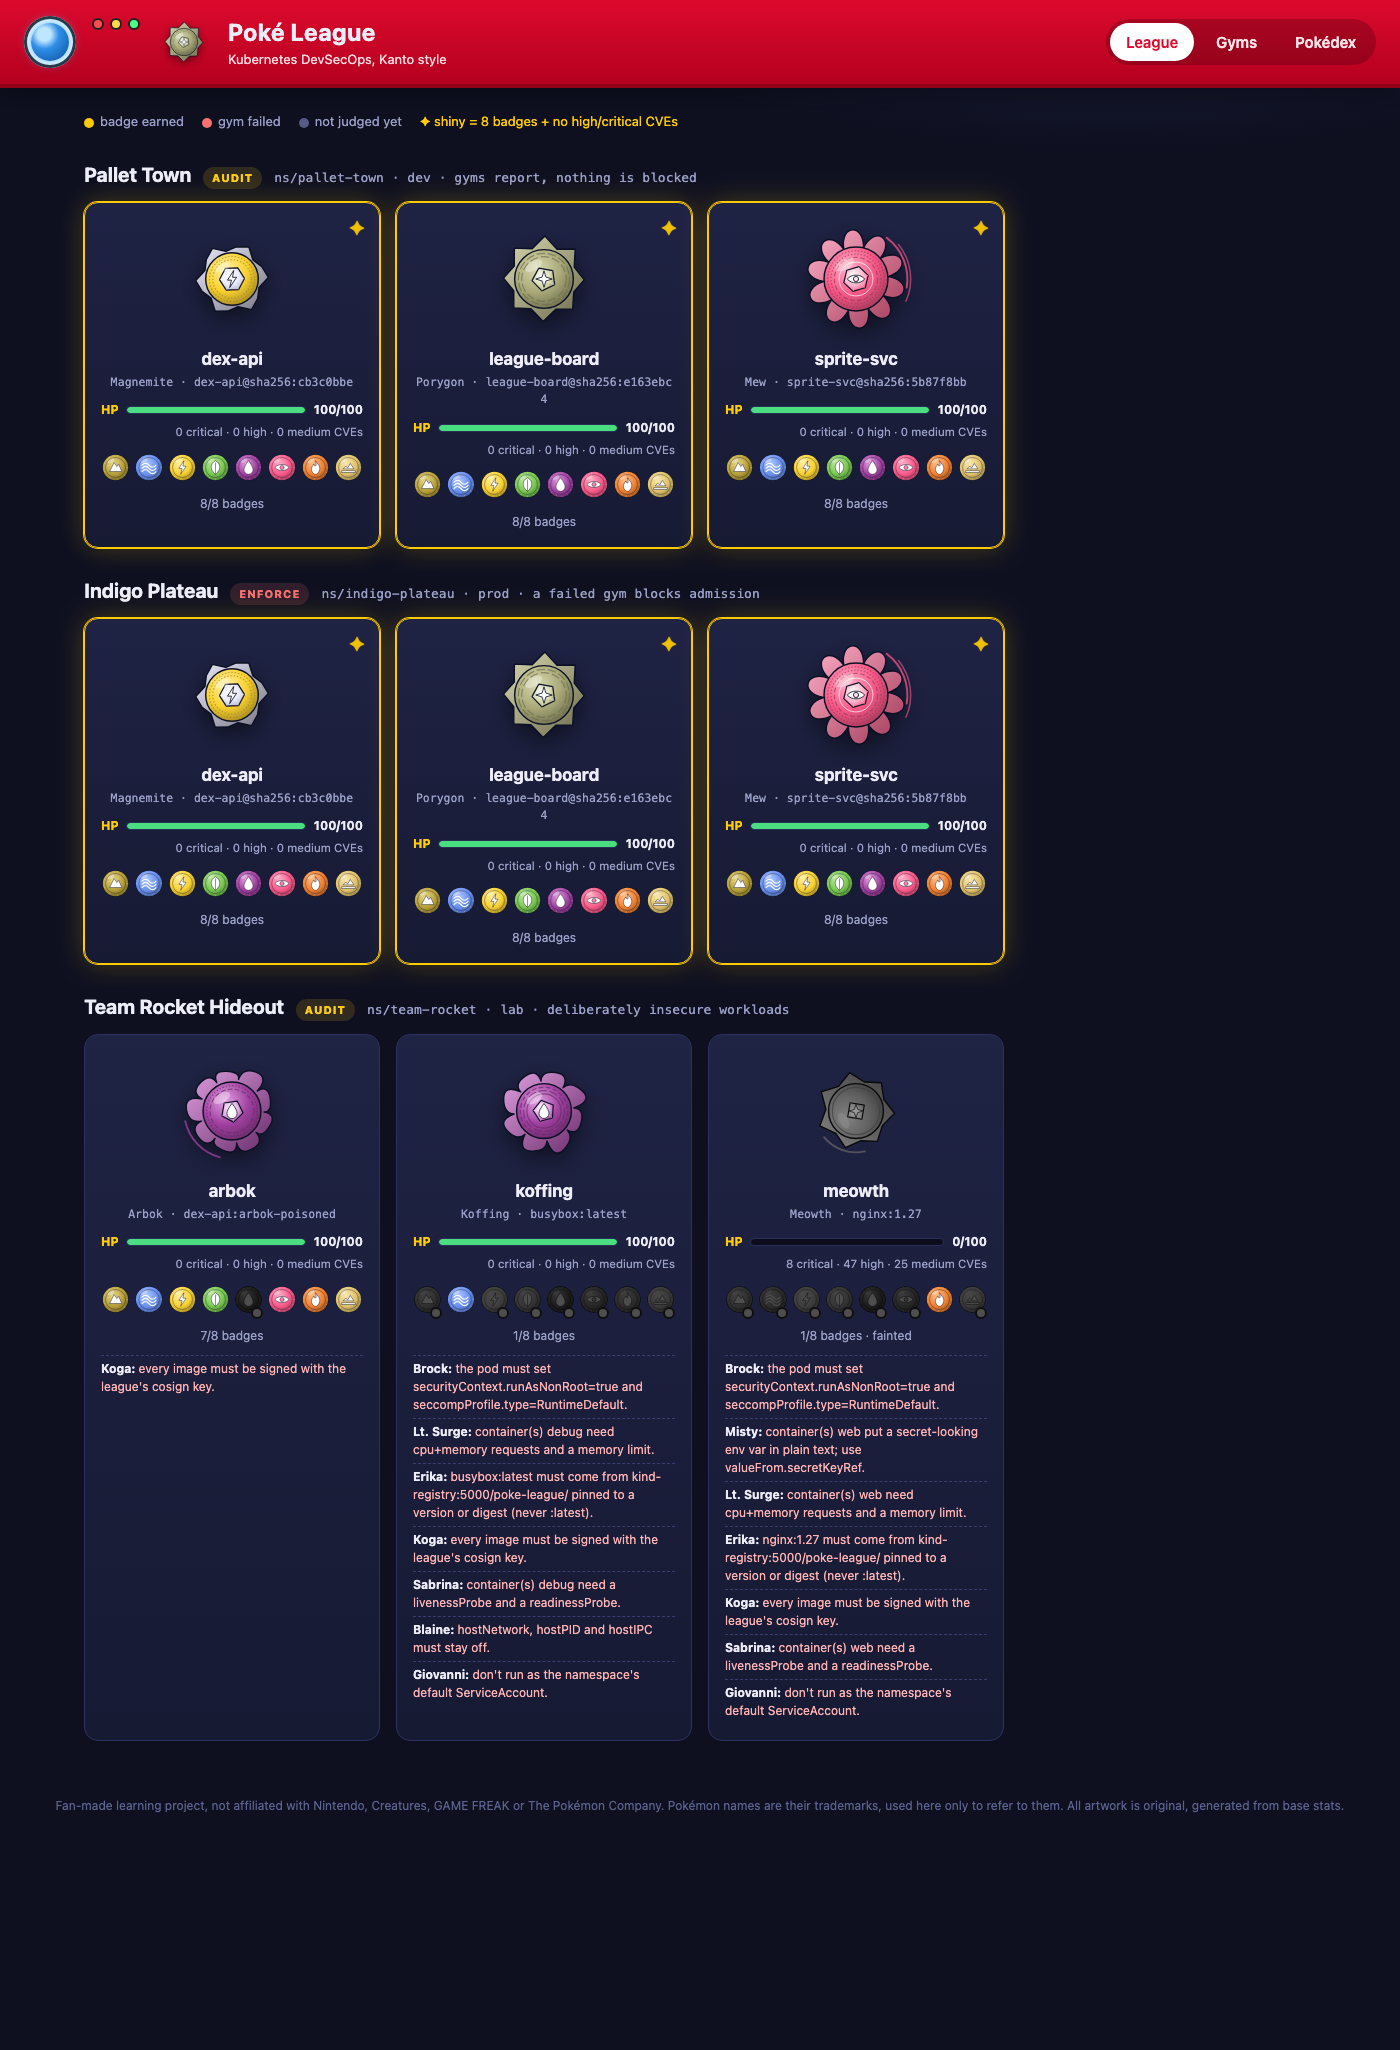
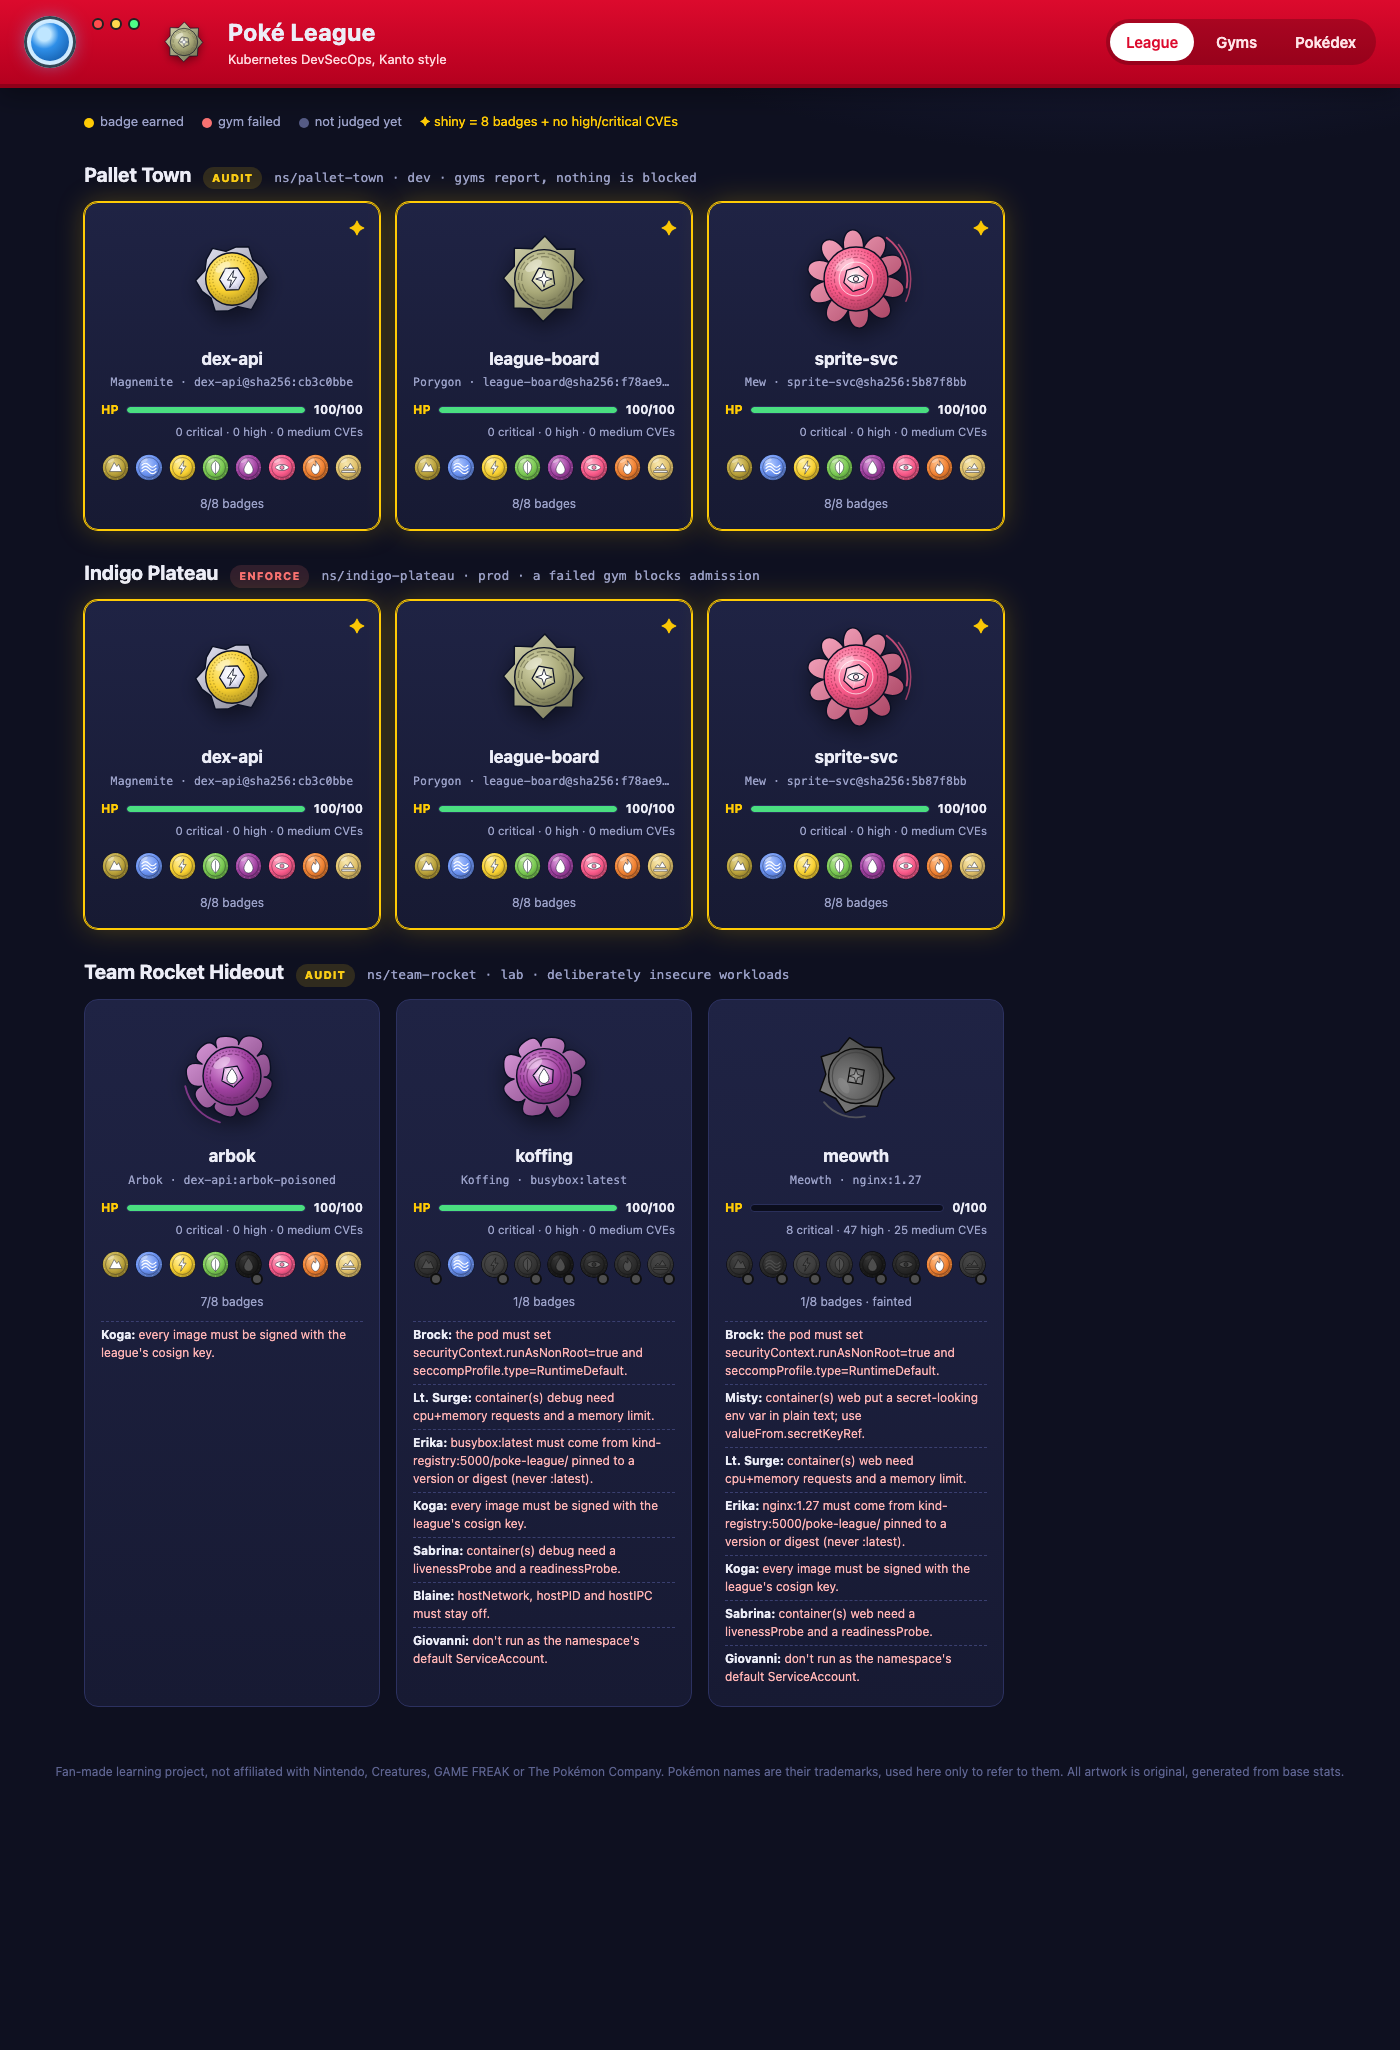
board: keep the image line on one row (ellipsis, full ref on hover); refresh screenshots

Changed region(s): [[0.0614, 0.1873, 0.7371, 0.8429]]

diff --git a/web/style.css b/web/style.css
@@ -105,7 +105,7 @@ main { padding: 24px; max-width: 1280px; margin: 0 auto; }
 }
 .card.fainted .art { filter: grayscale(1) brightness(.6); transform: rotate(-90deg); }
 .card h3 { margin: 0; text-align: center; font-size: 17px; }
-.card .img { text-align: center; font-family: var(--mono); color: var(--muted); font-size: 11.5px; word-break: break-all; margin: 2px 0 10px; }
+.card .img { text-align: center; font-family: var(--mono); color: var(--muted); font-size: 11.5px; white-space: nowrap; overflow: hidden; text-overflow: ellipsis; margin: 2px 0 10px; }
 
 .hp { display: grid; grid-template-columns: auto 1fr auto; gap: 8px; align-items: center; font-size: 12px; font-weight: 700; }
 .hp .bar { height: 8px; background: #0b0d1c; border-radius: 99px; overflow: hidden; border: 1px solid #2a2f5a; }
